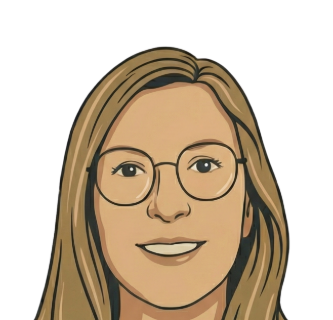
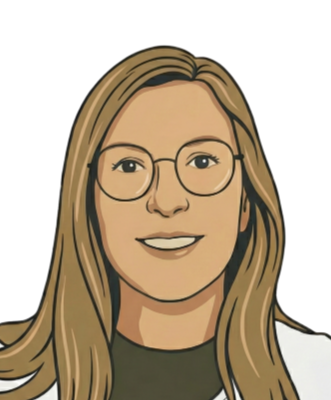
v0.86 — portrait : cheveux jusqu'aux épaules, vignette agrandie (82 px / 76 px)

diff --git a/index.html b/index.html
@@ -205,7 +205,7 @@
     <p class="centre" style="margin:10px 0 14px;font-size:17px;font-weight:700;color:var(--vert);letter-spacing:.01em">Petites pauses, grands effets.</p>
     <div class="devise"><span>PRÉVENIR</span><span>BOUGER</span><span>SOULAGER</span></div>
     <div class="carte" style="display:flex;gap:12px;align-items:center">
-      <img src="claire-avatar.png" alt="Claire Betriu" style="height:64px;display:block;flex-shrink:0">
+      <img src="claire-avatar.png" alt="Claire Betriu" style="height:76px;display:block;flex-shrink:0">
       <p class="sub" style="margin:0;font-size:13.5px"><b style="color:var(--encre)">Conçue par Claire Betriu, ostéopathe D.O.</b><br>En cabinet libéral depuis 2008 — les conseils donnés en consultation, adaptés à votre journée de travail.</p>
     </div>
     <div class="carte">
@@ -2450,7 +2450,7 @@ function rendreAccueil(){
   const tip = tipDuJour(tick);
   const b=document.getElementById("bandeau-conseil");
   b.innerHTML = `<div onclick="basculerMotClaire()" style="cursor:pointer;display:flex;gap:12px;align-items:flex-start">
-      <img src="claire-avatar.png" alt="Claire" style="height:66px;display:block;flex-shrink:0;margin-top:-2px">
+      <img src="claire-avatar.png" alt="Claire" style="height:82px;display:block;flex-shrink:0;margin-top:-2px">
       <div style="flex:1;min-width:0">
       <div style="display:flex;gap:9px;align-items:center">
         <b style="font-size:13.5px">Le mot de Claire</b>
@@ -3891,7 +3891,7 @@ function marquerChip(id, txt){
    à OneSignal sous forme d'étiquettes (h0..h4, j0..j6, off) ; chaque matin,
    la tâche Vercel /api/programmer-rappels programme les envois du jour.
    ========================================================= */
-const APP_VERSION = "0.85";
+const APP_VERSION = "0.86";
 const ONESIGNAL_APP_ID = "71872c50-5f1b-48ea-900a-7fa346a3e5e0";
 let pushPret = false, pushAbonne = false, _OS = null, pushErreur = "";
 const iosNonInstalle = /iPhone|iPad|iPod/.test(navigator.userAgent) && !window.navigator.standalone;

diff --git a/sw.js b/sw.js
@@ -1,6 +1,6 @@
 /* Mon poste & moi — service worker : installation PWA + fonctionnement hors ligne.
    (Les notifications push ont leur propre worker : OneSignalSDKWorker.js) */
-const CACHE = "monposteetmoi-v085";
+const CACHE = "monposteetmoi-v086";
 const FICHIERS = ["./", "./index.html", "./manifest.json", "./icon-192.png", "./icon-512.png", "./logo-cygne.png", "./claire-avatar.png"];
 
 self.addEventListener("install", (e) => {
